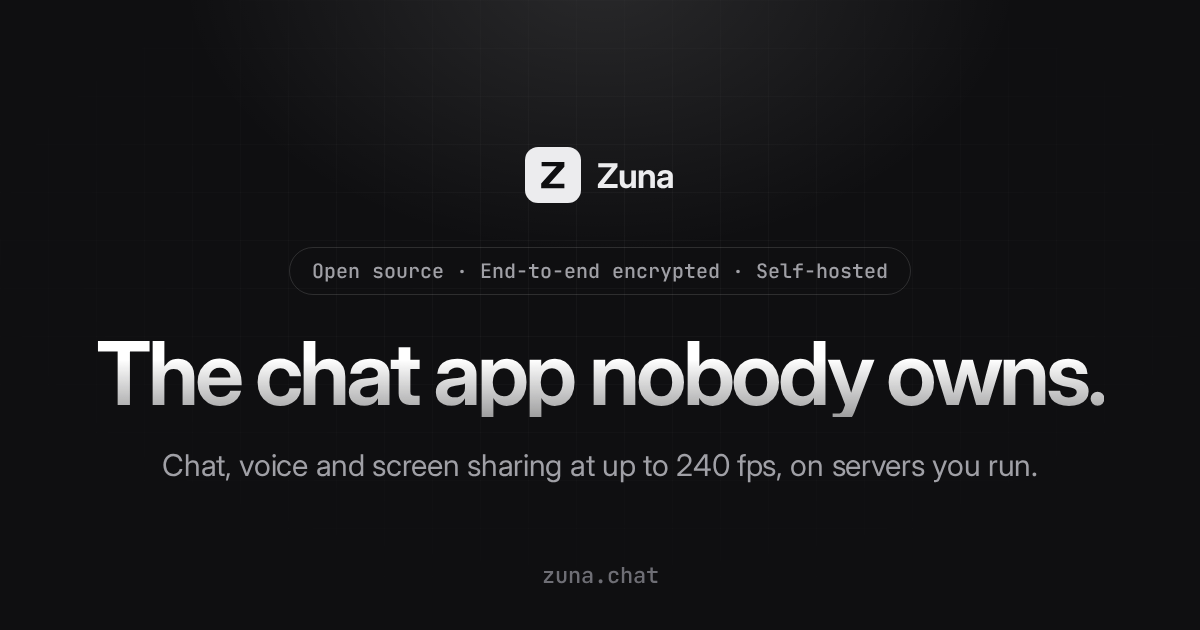
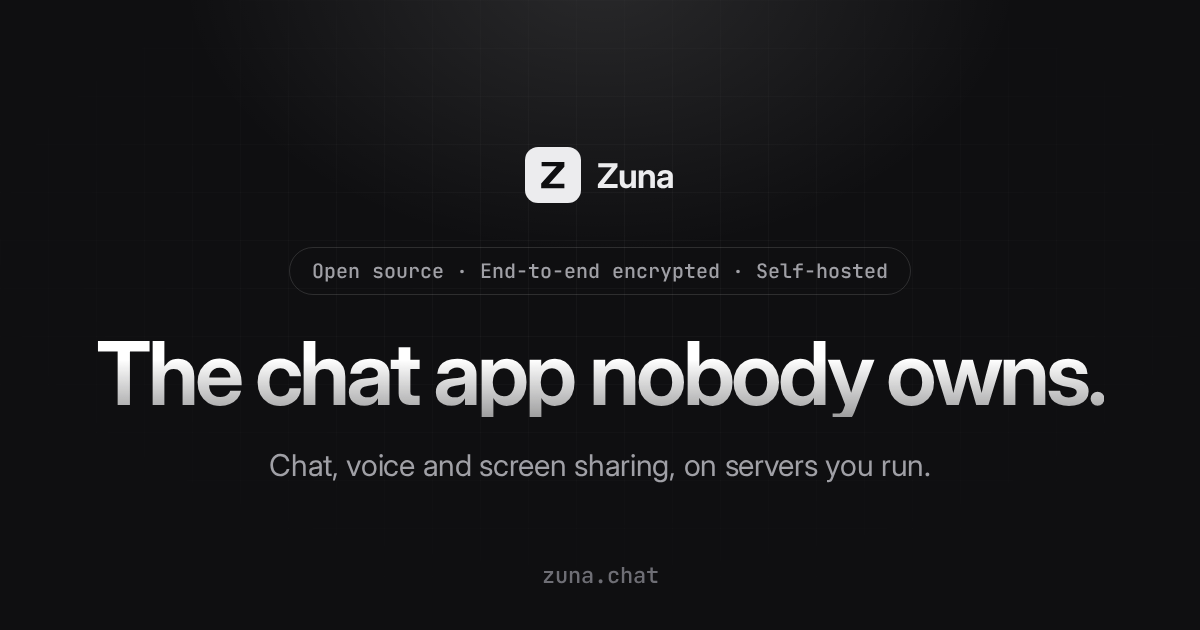
Stop leading zuna.chat's description and link picture with 240 fps
Search results and shared links made 240 fps the one thing said about
Zuna besides chat and voice. It stays in the streaming section, beside
4K and the latency, where it's one figure among several.

Changed region(s): [[0.1233, 0.7238, 0.8633, 0.754]]

diff --git a/apps/site/src/pages.ts b/apps/site/src/pages.ts
@@ -20,7 +20,7 @@ export const PAGES: Page[] = [
     file: "index.html",
     title: "Zuna: end-to-end encrypted chat on servers you run",
     description:
-      "Messages, groups, voice channels, calls and screen sharing at up to 240 fps, on a server you and your friends run. Even whoever hosts it can't read a word. Free and open source.",
+      "Messages, groups, voice channels, calls and screen sharing, on a server you and your friends run. Even whoever hosts it can't read a word. Free and open source.",
   },
   {
     id: "privacy",
